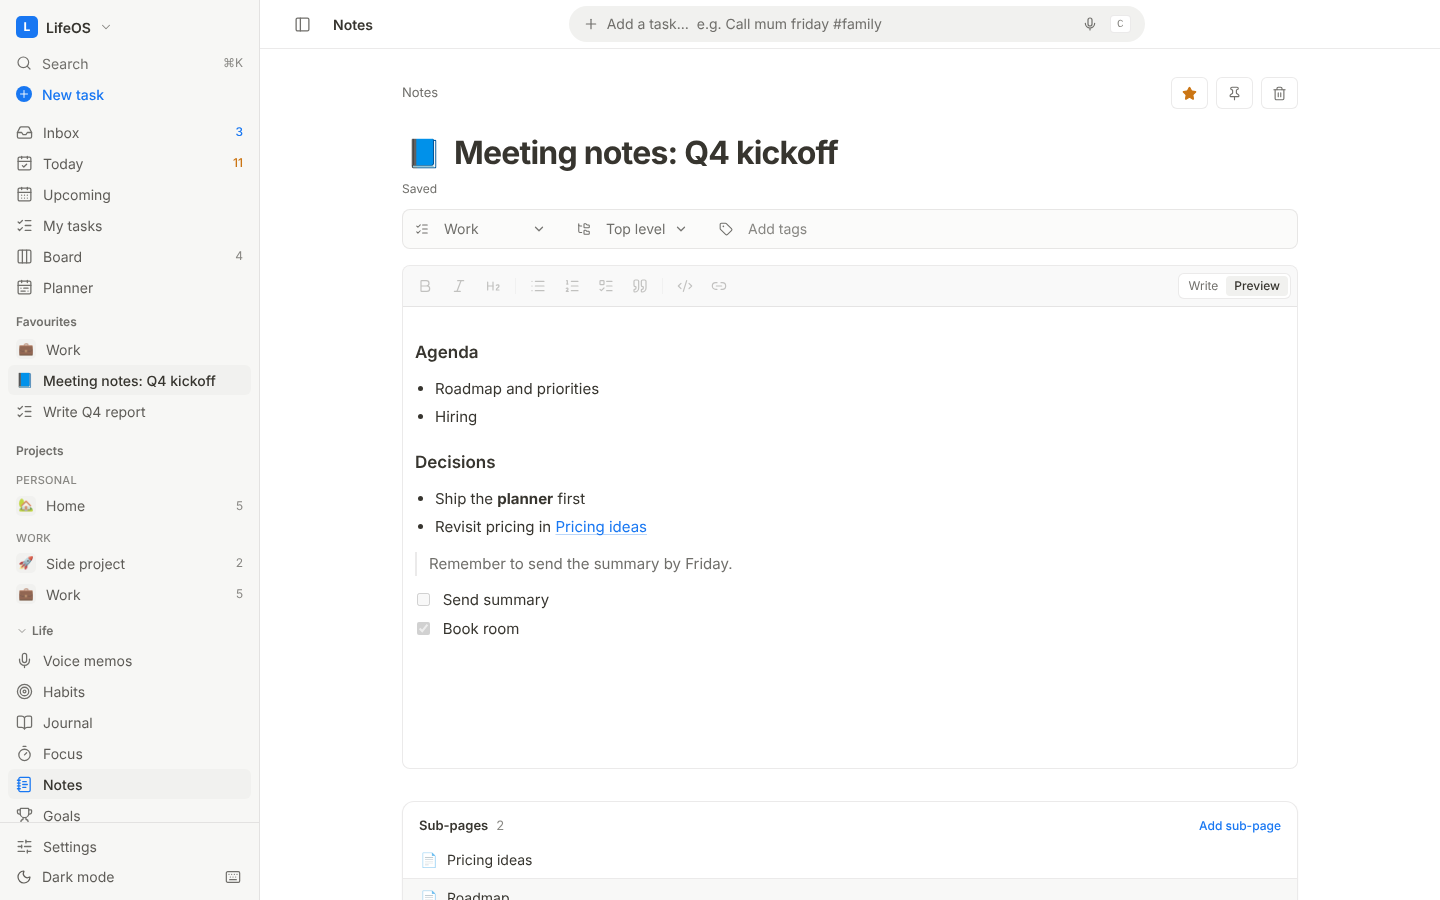
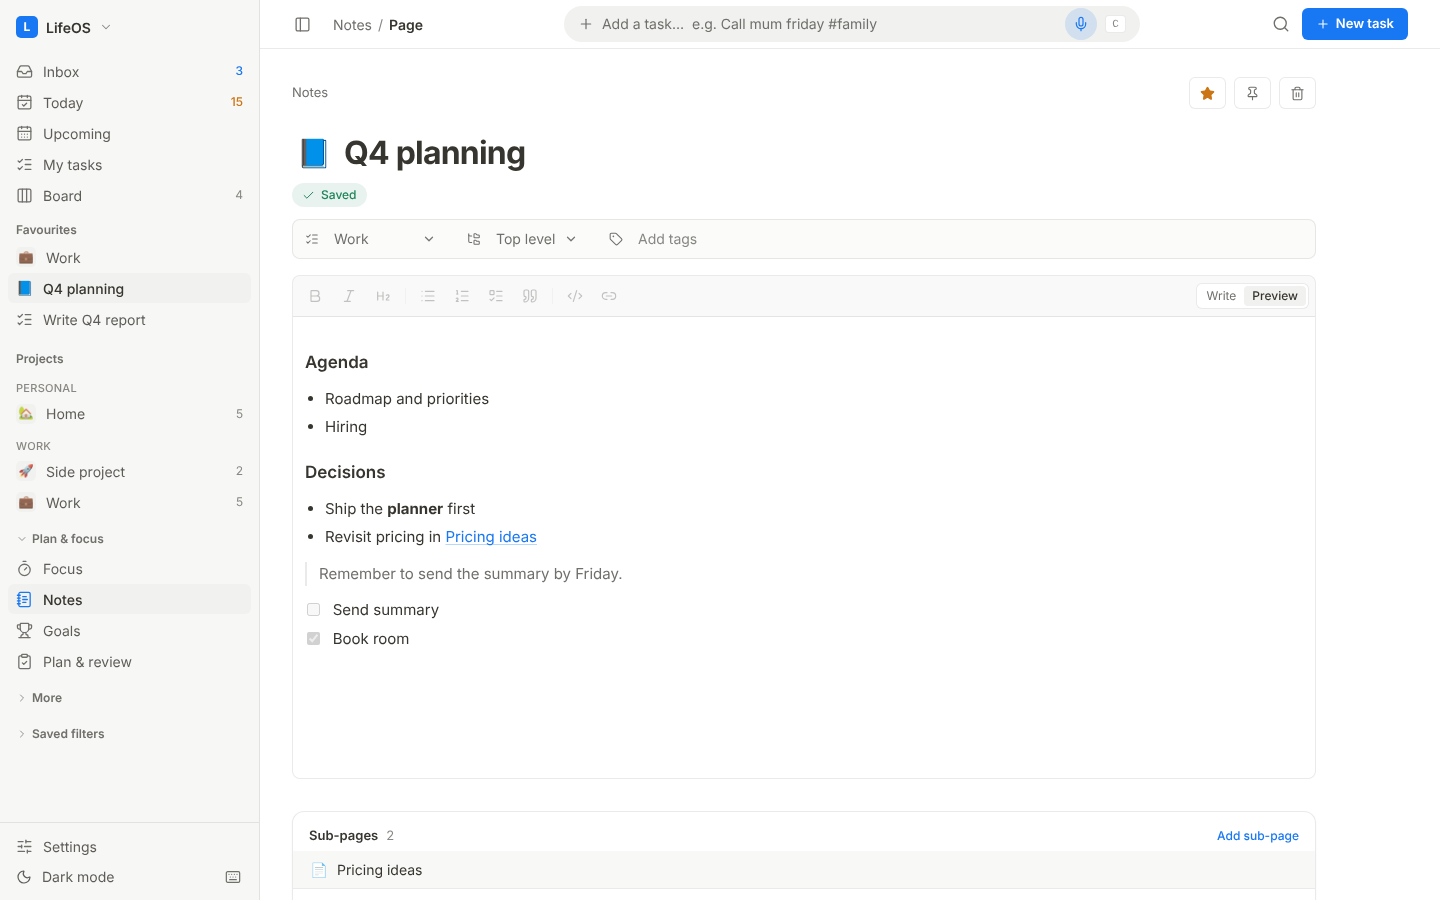
README rewritten for the task, workload and planning focus; fresh screenshots

diff --git a/README.md b/README.md
@@ -1,16 +1,17 @@
 # LifeOS
 
-A personal, single-user workspace that mixes Trello, Notion and Confluence: tasks and boards, projects with their own views, wiki-style notes, voice memos, habits, journal and more. Everything is switchable.
-Next.js 15 + SQLite (better-sqlite3). Self-hosted, with a REST API, an MCP server and a background worker.
+A personal task and planning workspace for one person: fast capture, projects with boards and notes, and a clear view of how much work you have against how much time you have. Self-hosted, private, switchable feature by feature.
+
+Next.js 15 · SQLite · a REST API, an MCP server for Claude, and a small background worker.
 
 ## Screenshots
 
 | | |
 |---|---|
-| ![Today](docs/screenshots/today.png) **Today**: tasks, calendar, habits and journal in one place | ![Project board](docs/screenshots/board.png) **Project board**: each project has its own columns, filters and bulk edit |
-| ![Project overview](docs/screenshots/project.png) **Project workspace**: overview, list, board, table, notes, voice memos and goals per project | ![Notes](docs/screenshots/notes.png) **Notes**: pages and sub-pages, backlinks, history and links to tasks |
-| ![Voice memos](docs/screenshots/voice.png) **Voice memos**: hold to talk, let go and it becomes a task, note or memo | ![Week view](docs/screenshots/week.png) **Week view**: drag tasks between days |
-| ![Task](docs/screenshots/task.png) **Task**: markdown notes, subtasks, links, comments and history | ![Dark board](docs/screenshots/board-dark.png) **Dark mode** |
+| ![Today](docs/screenshots/today.png) **Today**: what's due, your workload against your day, calendar and goals | ![Week](docs/screenshots/week.png) **Week**: a workload bar on every day, drag tasks between days |
+| ![Board](docs/screenshots/board.png) **Board**: compact cards, tick to complete, custom columns per project | ![Lightbox](docs/screenshots/lightbox.png) **Open a card in a pop-up**: edit everything without leaving the board |
+| ![Project](docs/screenshots/project.png) **Projects** are workspaces: overview, list, board, table, notes, goals | ![Notes](docs/screenshots/notes.png) **Notes**: pages and sub-pages, links, history, icons |
+| ![Tasks](docs/screenshots/tasks.png) **My tasks**: group by date, project or priority; move overdue in one click | ![Dark](docs/screenshots/board-dark.png) **Dark mode** |
 
 On a phone it uses a bottom bar and one board column at a time:
 
@@ -18,98 +19,98 @@ On a phone it uses a bottom bar and one board column at a time:
 
 (The screenshots use made-up demo data.)
 
-## Deploy
-Docker Compose + Cloudflare Tunnel + Access: see **[docs/DEPLOY.md](docs/DEPLOY.md)** (specs, setup, updates, recovery).
+## What it does
 
-## Run
+**Capture, fast**
+- One **Add a task** bar everywhere. Type naturally: `Pay rent every month #bills @home !high 31 march at 9am ~30m`.
+- **Voice:** hold the mic in the bar and talk, let go and the task is added (or tap to start and stop). Uses your browser's speech recognition.
+- **Chrome extension** (download it from Settings → Connections): record from any tab without opening LifeOS, with a default project.
+- **Email to tasks**, a **Telegram bot**, the **REST API**, iOS Shortcuts, the phone share sheet, and **Claude** over MCP.
+
+**Plan your time**
+- **Today** with a workload meter (estimates against your daily capacity), **Inbox**, **Upcoming** (agenda, week and month), and a **Planner** timeline that can auto-schedule into free slots around your calendar.
+- **Workload bars** on every day of the week and agenda show when you're overbooked. **Move all overdue** to today, tomorrow or next week in one click, or triage them one by one in **Plan & review**.
+- **Focus**: a Pomodoro and timers that keep running while you move around the app, with a countdown in the top bar.
+- **Reminders**: a browser notification with **Mark done** and **Snooze** (15 minutes by default) while LifeOS is open, plus ntfy or webhook push and a morning brief from the worker.
+- **Calendar sync** (read-only, from any private `.ics` link) and a subscribable **iCal feed** of your tasks.
+
+**Organise**
+- **Projects** with their own overview, list, board, table and notes. Group them into **areas**, give them an emoji, reorder them by dragging, pick the view they open to, and drag any task onto a project in the sidebar to move it.
+- **Boards** with custom columns (per project if you like), filters, sorting, bulk edit, drag between columns, tick to complete.
+- **Notes**: Markdown, `[[links]]`, pages and sub-pages, backlinks, version history, and conflict protection if two devices edit at once.
+- **Goals** with key results, **Templates** (a task plus its checklist in one click), **Tags** (rename, merge, recolour; they keep the capitals you type), **Favourites** pinned in the sidebar, **links** between any tasks, notes and goals.
+- Subtasks (editable in place), repeating tasks, saved searches with operators (`#tag @project due:week is:overdue no:date has:link`), manual ordering, trash with undo.
+
+**Look back**
+- **Insights** (completion heatmap, streaks, focus time), an **Activity** log, and history on tasks, notes and goals (typing a title is one entry, not one per keystroke).
+- Export everything as JSON or CSV, export voice memos to PDF (print to PDF), import from Todoist, CSV, or Markdown (Notion exports).
+
+**Your data, safe**
+- Encrypted, verified backups to your own Cloudflare R2 bucket, with a one-click restore and undo.
+- Every upgrade makes a copy of your database first. Schema changes are additive.
+- Features that have been removed over time (habits, journal, budgets, subscriptions, people, news, music, weather) leave their data in the database and in the JSON export; nothing is deleted.
+
+## Run it
+
 ```bash
 npm install
 npm run dev                      # http://127.0.0.1:3000
 npm run build && npm start       # production, binds 127.0.0.1
-npm run worker                   # reminders, morning brief, IMAP email import (optional, keep it running)
+npm run worker                   # reminders, morning brief, calendar sync, email polling, backups (optional)
 npm run mcp                      # MCP server for Claude and other bots (optional)
 LIFEOS_DB=data/demo.db npm run seed   # fill a demo database
+npm test                         # unit and upgrade tests
 ```
-Data lives in `data/lifeos.db` (override with `LIFEOS_DB`). Back it up from **Settings → Your data**.
 
-## Switch features on and off
-**Settings → Features.** Everything except Today, Inbox, My tasks and Settings can be turned off: Upcoming, Board, Plan & review,
-Insights, Habits, Journal, Focus, Planner, Notes, Goals, People, Templates, Budgets, Subscriptions, Calendar sync, Telegram, the AI assistant (off by default), News, Weather, Music, Email import, Reminders, REST API. A switched-off feature disappears from the
-sidebar, mobile nav, command palette, shortcuts, Today, the MCP tools, the REST API and the worker. Data is kept if you turn it back on.
+Data lives in `data/lifeos.db` (override with `LIFEOS_DB`).
 
-## What's in it
-**Tasks:** projects, tags, priority, due date **and time**, **estimates**, repeats, **subtasks/checklists** (recurring checklists reset),
-quick-add syntax (`Pay rent every month #bills @home !high 31 march at 9am ~30m`), soft-delete with **Undo** (30 days), duplicate.
-**Views:** Today (with workload meter), **Inbox**, **Upcoming** (agenda + month), My tasks, Board, **Search** with operators
-(`#tag @project due:week is:done no:date has:link source:email`), **Plan your day / weekly review** (one-tap triage), **Insights**
-(heatmap, streaks, focus), **Habits** (streaks that skip unscheduled days), **Journal** (mood + daily note).
-**Speed:** `⌘K` palette (searches tasks too), `C` capture, `J/K/X/E/T/W/#` in lists, `?` for help, hover quick-reschedule.
-**Phone:** installable PWA, share-sheet "Share to LifeOS", bottom tab bar, floating `+`.
+## Deploy and update
 
-**Money:** monthly **budgets** per category (default + per-month overrides), transactions, `$12.50 coffee` quick-add from anywhere, rules that auto-categorise by payee, **bank CSV import** (delimiter/date/debit-credit detection, de-duplicated), month projection and threshold alerts, savings goals. **Subscriptions:** cycle maths, auto-logged renewals, free-trial and renewal reminders, price-rise detection, monthly/yearly totals.
-**Planning & life:** **Planner** (time-blocking timeline, auto-schedule into free slots, synced calendar events), **Notes** (Markdown, `[[links]]`, backlinks), **Goals** with key results, **People** (catch-up cadence, birthdays), **Templates** (one click makes a task with its checklist), **Do this now**, **Priority matrix**, **Trash**, saved filters, bulk select, task comments, link-title enrichment, voice capture (where the browser supports it), quiet hours.
-**Board:** custom columns (add, rename, reorder, remove) with a *kind* (To do / In progress / Done) so counts and reminders keep working, optional **per-project columns**, add cards straight into a column, click a card to open it, and finished cards hide after N days. **Projects** are hubs: tasks, board, notes and goals. **Tags** on tasks, notes, goals and people. **History** on tasks, notes and goals (with restorable note versions) plus an Activity page. Voice is hold-to-talk: let go and it's added as a task.
-**Customise:** Reorder, hide or show sidebar pages from the LifeOS menu → Edit sidebar (desktop). Settings → Layout picks the (up to 4) tabs in the phone's bottom bar and the order of Today's side panels.
+Docker Compose + Cloudflare Tunnel + Access is the recommended setup. See **[docs/DEPLOY.md](docs/DEPLOY.md)** for sizing, setup, security and recovery.
 
-## Also in it
+**Update:** run `./update.sh` in your checkout. It pulls, builds the image once (web, worker and MCP share it), restarts what changed and tidies old images. The build reuses a compile cache, so the first build after a Dockerfile change is slow and later ones are much quicker. If it is still slow, `docker compose build --progress=plain web` shows which step takes the time.
 
-- Search across tasks, notes, goals, people, voice memos and projects (`⌘K` or `/search`)
-- Manual ordering of tasks and board cards (drag), board filters/sort, select mode with bulk edit, subtask progress on cards
-- Table view for tasks; week view (drag to reschedule) on Upcoming
-- Links between any two items (shown on both sides)
-- Tags page: rename, merge, recolour, delete
-- Import from Todoist CSV, generic CSV, and Markdown/text (Notion exports) in Settings, plus a fuller JSON export
-- Edit conflicts on notes are detected across devices (keep mine / use theirs / keep both)
-- Mobile board column tabs; sidebar editing in Settings
-
-## More
-
-- Settings are organised into tabs (General, Reminders, Connections, Data & backup). The Chrome extension can be downloaded from Settings → Connections, with a default project for its voice memos.
-- Projects open to a view you choose (e.g. Board), can be reordered by dragging within their area, and tasks can be dragged onto a project in the sidebar to move them.
-- Voice memos live in the Inbox (a tab), and are filed under a project when recorded inside one. Planner is reachable from Today's Timeline button.
-- Browser reminders: while LifeOS is open, timed tasks pop up a notification with Mark done and Snooze (15 minutes by default).
-- Subscriptions: weekly, fortnightly, monthly, quarterly, half-yearly and yearly; a Pay run lists the charges in a week, fortnight, month or year so you can tick off what you've paid.
-
-## Projects, layout
-
-Each project is its own workspace with tabs: Overview, List, Board, Table, Notes, Voice memos and Goals, all filtered to that project. Anything recorded or created inside a project is filed under it. The sidebar can be hidden with the button in the top bar (or `[`), and boards, tables, projects and the week view use the full width.
-
-## Upgrading
-
-Run `./update.sh` in your checkout. It pulls, builds the image once (web, worker and MCP share it), restarts what changed and tidies old images. Database changes are additive, and a copy of your database is saved next to it before any schema upgrade (currently schema v7).
-
-Builds reuse a compile cache, so the first one after this change is slow (several minutes on a small machine) and later ones are much quicker. If it is still slow, `docker compose build --progress=plain web` shows which step takes the time.
-
-**Fastest of all: run it without Docker.** On a small machine most of the time is Docker re-exporting the image, not compiling. Running the app directly keeps Next.js's build cache in the folder, so an update is usually under a minute:
+**Fastest:** run it without Docker. The Next.js build cache stays in the folder, so an update is usually under a minute:
 
 ```
 git pull && npm ci && npm run build && sudo systemctl restart lifeos lifeos-worker lifeos-mcp
 ```
 
-(or `pm2 restart all`). You'd run `npm start`, `npm run worker` and `npm run mcp` under systemd or pm2, with the same `.env`. Keep using Docker if you prefer the isolation.
+(or `pm2 restart all`; run `npm start`, `npm run worker` and `npm run mcp` under systemd or pm2 with the same `.env`.)
+
+## Switch features on and off
+
+**Settings → Features.** Everything except Today, Inbox, My tasks and Settings can be turned off: Upcoming, Board, Plan & review, Insights, Planner, Templates, Voice, Goals, Notes, Focus, Calendar sync, Telegram, the AI assistant (off by default), Email import, Reminders and the REST API. A switched-off feature disappears from the sidebar, mobile nav, command palette, Today, the MCP tools, the REST API and the worker. Data is kept if you turn it back on.
+
+Settings is organised into tabs: **General** (features, time and capacity, layout, theme), **Reminders**, **Connections** (extension, email, API, calendar, Telegram, AI) and **Data & backup** (backup, import, export, archived projects).
+
+## Shortcuts
+
+`⌘K` search and commands · `C` or `/` quick add · `[` hide the sidebar · `g` then a letter to jump (e.g. `g t` Today, `g b` Board) · `J/K` move, `X` complete, `E` edit, `T` tomorrow in lists · `?` for the full list.
 
 ## Integrations
+
 | What | How |
 |---|---|
-| **Claude / MCP** | `LIFEOS_MCP_TOKEN=$(openssl rand -hex 24) npm run mcp`, then `tailscale serve --bg --https=8443 http://127.0.0.1:3737` and `claude mcp add --transport http lifeos https://<machine>.<tailnet>.ts.net:8443/mcp --header "Authorization: Bearer <token>"`. 30 tools; they follow the feature switches. Never use `tailscale funnel`. |
-| **REST API** | Settings → API & calendar feed → create a token. `POST /api/v1/tasks {"text":"Call mum tomorrow at 5pm"}`, `GET /api/v1/tasks?q=`, `PATCH/DELETE /api/v1/tasks/:id`, `POST /api/v1/tasks/:id/complete`, `/search`, `/brief`, `/habits`, `/journal`. Good for iOS Shortcuts and scripts. |
-| **Email to tasks** | Webhook: POST any email (Postmark, Mailgun, SendGrid, JSON, or raw RFC 822 from a Cloudflare Email Worker) to the URL in Settings. Or IMAP: set `LIFEOS_IMAP_HOST/USER/PASS` (+ `_MAILBOX`, `_FLAGGED_ONLY=1`) and run the worker. Subject accepts quick-add syntax; `tasks+work@` adds the tag `work`; duplicates are skipped. |
-| **Calendar** | Subscribe to the iCal URL in Settings from Google/Apple/Outlook. Repeats come through as RRULEs. |
-| **Push** | ntfy topic and/or any webhook in Settings; due-time reminders, morning brief, evening habit nudge. Needs `npm run worker` and `LIFEOS_BASE_URL` for tap-through links. |
-| **Calendar sync** | Settings → Calendar sync: paste a private `.ics` link (Google: "Secret address in iCal format"). Read-only, refreshed by the worker every ~15 min. |
-| **Telegram** | Create a bot with @BotFather, paste the token in Settings → Telegram, send the shown `/start <code>` to link your chat. Default is **polling** (the worker fetches messages; no public URL). Webhook mode is optional. Only that chat is answered. Free text adds a task; `/today /inbox /done 12 /search /brief /habits /spent 12 coffee /subs`. |
-| **AI assistant** | Off by default. Set `ANTHROPIC_API_KEY`, switch it on in Settings; smart paste, plan-my-day and ask. Model `claude-opus-5-5` (override `LIFEOS_AI_MODEL`). Text is sent to Anthropic only when you press a button. |
-| **Voice memos / Chrome extension** | `/voice` records speech (browser speech recognition) into a memo, task or note. `extension/` is an unpacked Chrome extension: toolbar icon or Alt+Shift+V opens a recorder window that POSTs text to `/api/v1/voice`. See `extension/README.md`. |
-| **Spotify** | `SPOTIFY_CLIENT_ID`, `SPOTIFY_CLIENT_SECRET`, `LIFEOS_BASE_URL`; Premium needed for control. |
+| **Claude / MCP** | `LIFEOS_MCP_TOKEN=$(openssl rand -hex 24) npm run mcp`, then `tailscale serve --bg --https=8443 http://127.0.0.1:3737` and `claude mcp add --transport http lifeos https://<machine>.<tailnet>.ts.net:8443/mcp --header "Authorization: Bearer <token>"`. Tools follow the feature switches. Never use `tailscale funnel`. |
+| **REST API** | Settings → Connections → API → create a token (read or write, limited to areas, with an expiry). `POST /api/v1/tasks {"text":"Call mum tomorrow at 5pm"}`, `GET /api/v1/tasks?q=`, `PATCH/DELETE /api/v1/tasks/:id`, `POST /api/v1/tasks/:id/complete`, `/search`, `/brief`, `POST /api/v1/voice`. |
+| **Chrome extension** | Download from Settings → Connections. The recorder opens from the toolbar icon (or Alt+Shift+V), sends text to `/api/v1/voice`, and can file everything under a default project. The microphone is allowed once on its options page. See `extension/README.md`. |
+| **Email to tasks** | Webhook: POST any email (Postmark, Mailgun, SendGrid, JSON, or raw RFC 822 from a Cloudflare Email Worker) to the URL in Settings. Or IMAP: set `LIFEOS_IMAP_HOST/USER/PASS` (+ `_MAILBOX`, `_FLAGGED_ONLY=1`) and run the worker. The subject accepts quick-add syntax; `tasks+work@` adds the tag `work`; duplicates are skipped. |
+| **Calendar** | Subscribe to the iCal URL in Settings from Google, Apple or Outlook. To show your own calendars in LifeOS, paste a private `.ics` link under Calendar sync (read-only, refreshed by the worker). |
+| **Push** | ntfy topic and/or any webhook; due-time reminders and a morning brief. Needs `npm run worker` and `LIFEOS_BASE_URL` for tap-through links. |
+| **Telegram** | Create a bot with @BotFather, paste the token in Settings, send the shown `/start <code>` to link your chat. Polling by default (no public URL needed). Free text adds a task; `/today /inbox /done 12 /search /brief`. |
+| **AI assistant** | Off by default. Set `ANTHROPIC_API_KEY` and switch it on: smart paste, plan-my-day and ask. Text is sent to Anthropic only when you press a button. |
 
 ## Backup to Cloudflare R2
-Settings → Backup. In Cloudflare: **R2 → Create bucket**, then **Manage R2 API tokens → Create token** with *Object Read & Write* limited to that bucket. Paste the account ID, bucket, access key ID and secret, and choose an **encryption passphrase** (write it down: without it a backup can't be opened). Press *Test connection*, then *Back up now & verify*.
-Each backup is a consistent snapshot (`VACUUM INTO`), integrity-checked, gzip'd, encrypted with AES-256-GCM (key from scrypt) and uploaded, then **downloaded again and verified** before it counts. Nothing is ever deleted unless the new backup verified. The worker (`npm run worker`) repeats it on your schedule, keeps the newest N, and sends a push if one fails.
-**Restore** swaps your data for a backup inside a single SQLite transaction (a failure rolls back completely), after saving your current data as `data/pre-restore-*.db` so you can **Undo**. Your backup credentials are kept across a restore. To recover on a new machine: set `LIFEOS_BACKUP_ENDPOINT/BUCKET/KEY_ID/SECRET/PASSPHRASE` in the environment, start LifeOS, and Restore from Settings.
 
-## Auth
-No login in the app: put it behind Cloudflare Tunnel + Access and set `LIFEOS_REQUIRE_CF_ACCESS=1` to 403 anything without the Access
-identity header. `/api/v1`, `/api/inbound` and `/api/ical` use their own token/secret, so add an Access bypass policy for those paths.
+Settings → Data & backup. In Cloudflare: **R2 → Create bucket**, then **Manage R2 API tokens → Create token** with *Object Read & Write* limited to that bucket. Paste the account ID, bucket, access key ID and secret, and choose an **encryption passphrase** (write it down: without it a backup can't be opened). Press *Test connection*, then *Back up now & verify*.
+
+Each backup is a consistent snapshot, integrity-checked, compressed, encrypted with AES-256-GCM and uploaded, then **downloaded again and verified** before it counts. Nothing is deleted unless the new backup verified. The worker repeats it on your schedule, keeps the newest N, and sends a push if one fails. **Restore** swaps your data inside a single transaction after saving your current data so you can **Undo**.
+
+## Security
+
+No login in the app: put it behind Cloudflare Tunnel + Access and set `LIFEOS_REQUIRE_CF_ACCESS=1` to refuse anything without the Access identity. `/api/v1`, `/api/inbound` and `/api/ical` use their own token or secret, so add an Access bypass for those paths. Tokens are scoped and expiring, bad credentials are rate limited, and the MCP server fails closed. Details in `docs/DEPLOY.md`.
 
 ## Design
-Light/dark (follows your system), Inter, Lucide icons, Sonner toasts. Patterns from Notion, Todoist, Jira, Stripe, WhatsApp/Messenger.
+
+Light and dark (follows your system), Inter, Lucide icons, Sonner toasts. Installable as a PWA.

diff --git a/docs/DEPLOY.md b/docs/DEPLOY.md
@@ -9,7 +9,7 @@ Measured on the production build. "Idle" is a freshly started container; "after 
 | Piece | Memory idle | Memory after use | Notes |
 |---|---|---|---|
 | `web` | ~110 MB | ~240 MB | Next.js server |
-| `worker` | ~70 MB | ~140 MB | reminders, scheduled backups, calendar sync, subscription auto-logging, email polling |
+| `worker` | ~70 MB | ~140 MB | reminders, scheduled backups, calendar sync, email polling |
 | `mcp` (optional) | ~90 MB | ~150 MB | only if you connect Claude / MCP clients |
 | `cloudflared` | small | not measured |
 
